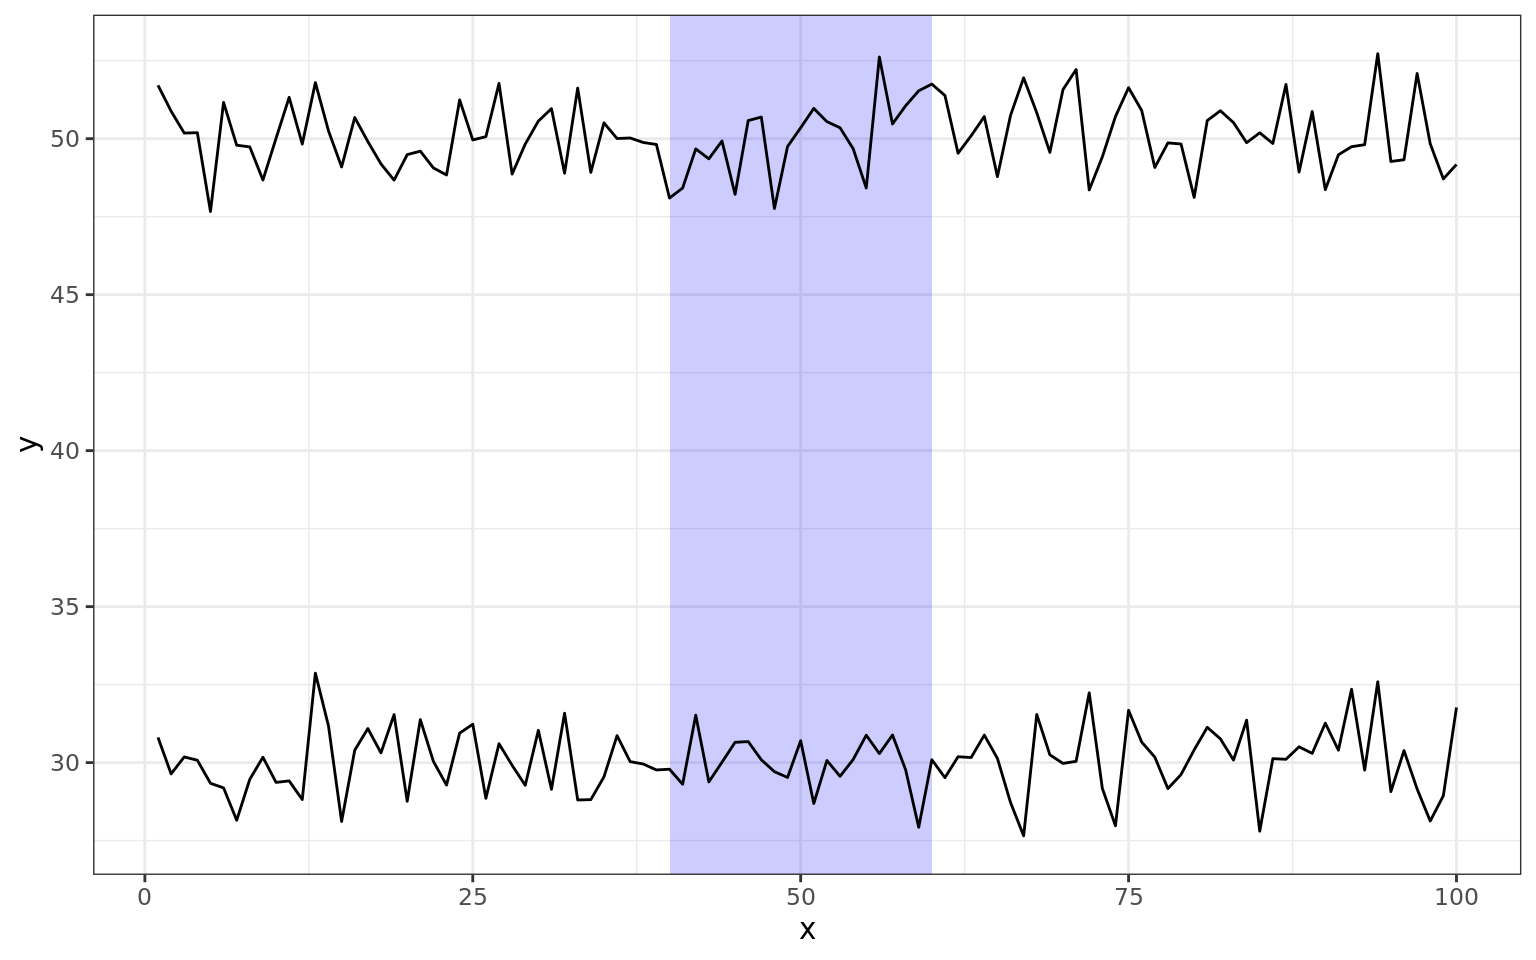
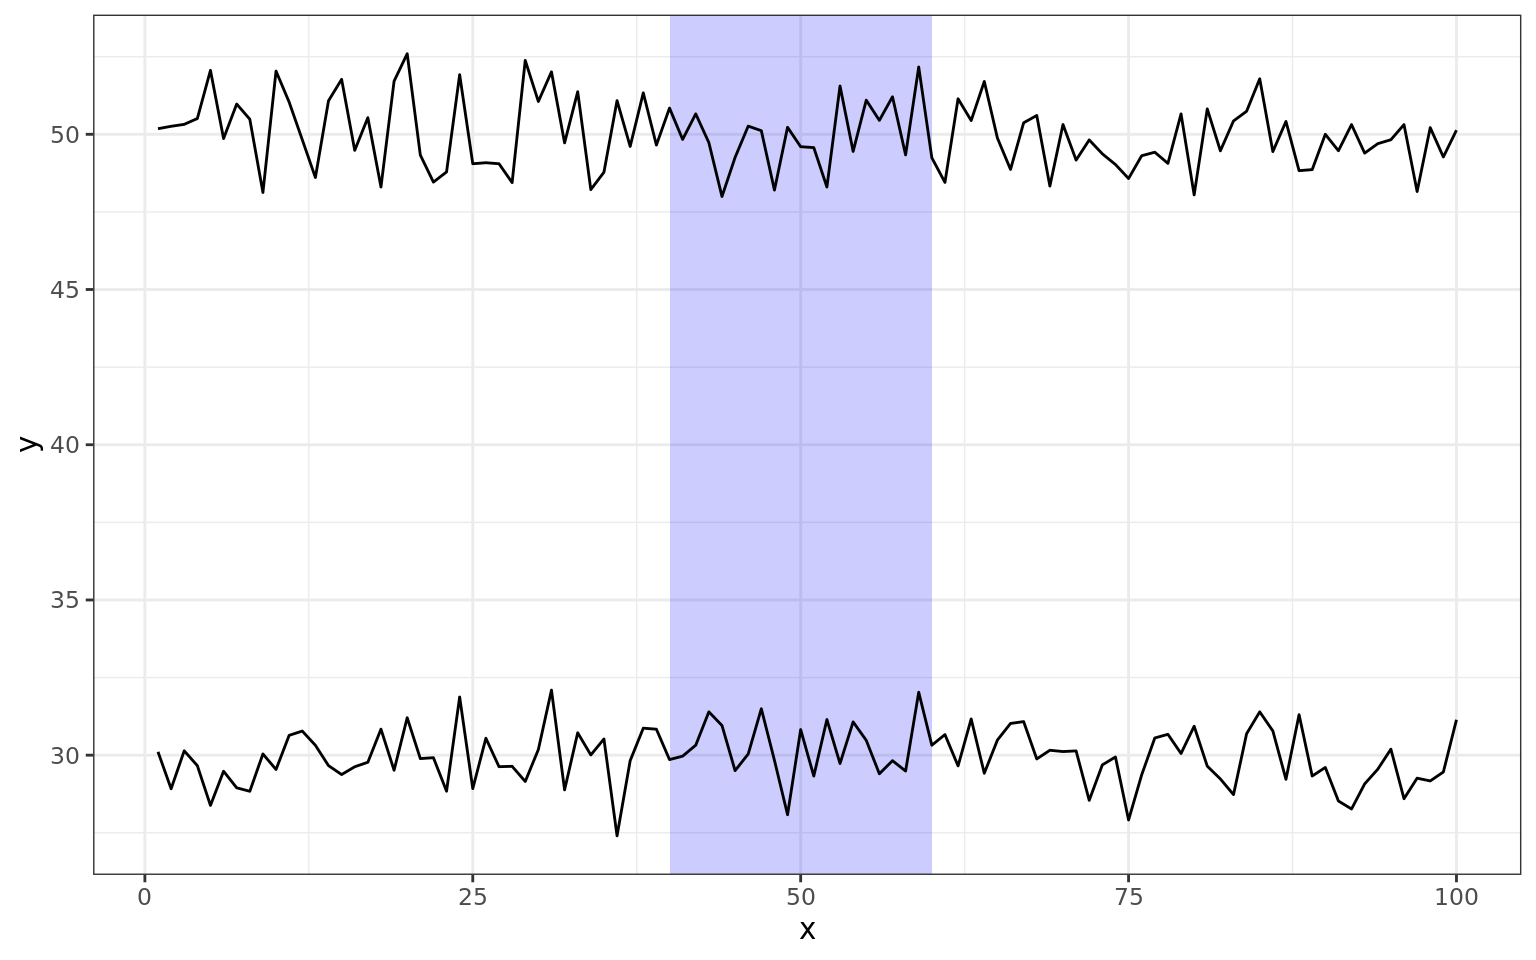
credit

diff --git a/docs/data-wrangling.html b/docs/data-wrangling.html
@@ -193,33 +193,33 @@ runsdata &lt;-<span class="st"> </span><span class="kw">tibble</span>(
 <span class="st">  </span><span class="kw">ungroup</span>() <span class="op">%&gt;%</span>
 <span class="st">  </span><span class="kw">select</span>(subject, trial, stimulus)</code></pre></div>
 <p>Let's say you want to find the start and stop frames where <code>Z</code> appears in <code>stimulus</code>, and do this independently for each combination of <code>subject</code> and <code>trial</code>. Here's how <code>stimulus</code> looks for subject 1 and trial 1.</p>
-<pre><code>##  [1] &quot;b&quot; &quot;b&quot; &quot;d&quot; &quot;d&quot; &quot;a&quot; &quot;a&quot; &quot;a&quot; &quot;c&quot; &quot;c&quot; &quot;Z&quot; &quot;Z&quot; &quot;Z&quot; &quot;d&quot; &quot;d&quot; &quot;d&quot; &quot;b&quot; &quot;b&quot; &quot;b&quot; &quot;c&quot;
-## [20] &quot;c&quot; &quot;a&quot; &quot;a&quot; &quot;a&quot; &quot;a&quot; &quot;Z&quot; &quot;Z&quot; &quot;Z&quot; &quot;c&quot; &quot;c&quot; &quot;d&quot; &quot;d&quot; &quot;d&quot;</code></pre>
-<p>So here you can see that the first run of Zs is from frame 10 to 12, 27 and the second is from 25 to 27. We want to write a function that processes the data for each trial and results in a table like this:</p>
+<pre><code>##  [1] &quot;a&quot; &quot;a&quot; &quot;a&quot; &quot;a&quot; &quot;c&quot; &quot;c&quot; &quot;c&quot; &quot;b&quot; &quot;b&quot; &quot;b&quot; &quot;d&quot; &quot;d&quot; &quot;d&quot; &quot;Z&quot; &quot;Z&quot; &quot;Z&quot; &quot;d&quot; &quot;d&quot; &quot;a&quot;
+## [20] &quot;a&quot; &quot;a&quot; &quot;a&quot; &quot;c&quot; &quot;c&quot; &quot;b&quot; &quot;b&quot; &quot;Z&quot; &quot;Z&quot; &quot;Z&quot; &quot;c&quot; &quot;c&quot; &quot;c&quot; &quot;c&quot; &quot;d&quot; &quot;d&quot;</code></pre>
+<p>So here you can see that the first run of Zs is from frame 14 to 16, 29 and the second is from 27 to 29. We want to write a function that processes the data for each trial and results in a table like this:</p>
 <pre><code>## # A tibble: 2 x 5
 ##   subject trial   run start_frame end_frame
 ##     &lt;dbl&gt; &lt;dbl&gt; &lt;int&gt;       &lt;int&gt;     &lt;int&gt;
-## 1       1     1     1          10        12
-## 2       1     1     2          25        27</code></pre>
+## 1       1     1     1          14        16
+## 2       1     1     2          27        29</code></pre>
 <p>The first thing to do is to add a logical vector to your tibble whose value is <code>TRUE</code> when the target value (e.g., <code>Z</code>) is present in the sequence, false otherwise.</p>
 <div class="sourceCode"><pre class="sourceCode r"><code class="sourceCode r">runsdata_tgt &lt;-<span class="st"> </span>runsdata <span class="op">%&gt;%</span>
 <span class="st">  </span><span class="kw">mutate</span>(<span class="dt">is_target =</span> (stimulus <span class="op">==</span><span class="st"> &quot;Z&quot;</span>))
 
 runsdata_tgt</code></pre></div>
-<pre><code>## # A tibble: 544 x 4
+<pre><code>## # A tibble: 548 x 4
 ##    subject trial stimulus is_target
 ##      &lt;int&gt; &lt;int&gt; &lt;chr&gt;    &lt;lgl&gt;    
-##  1       1     1 b        FALSE    
-##  2       1     1 b        FALSE    
-##  3       1     1 d        FALSE    
-##  4       1     1 d        FALSE    
-##  5       1     1 a        FALSE    
-##  6       1     1 a        FALSE    
-##  7       1     1 a        FALSE    
-##  8       1     1 c        FALSE    
-##  9       1     1 c        FALSE    
-## 10       1     1 Z        TRUE     
-## # … with 534 more rows</code></pre>
+##  1       1     1 a        FALSE    
+##  2       1     1 a        FALSE    
+##  3       1     1 a        FALSE    
+##  4       1     1 a        FALSE    
+##  5       1     1 c        FALSE    
+##  6       1     1 c        FALSE    
+##  7       1     1 c        FALSE    
+##  8       1     1 b        FALSE    
+##  9       1     1 b        FALSE    
+## 10       1     1 b        FALSE    
+## # … with 538 more rows</code></pre>
 <p>We want to iterate over subjects and trials. We'll start by creating a tibble with columns <code>is_target</code> nested into a column called <code>subtbl</code>.</p>
 <div class="sourceCode"><pre class="sourceCode r"><code class="sourceCode r">runs_nest &lt;-<span class="st"> </span>runsdata_tgt <span class="op">%&gt;%</span>
 <span class="st">  </span><span class="kw">select</span>(<span class="op">-</span>stimulus) <span class="op">%&gt;%</span><span class="st"> </span><span class="co"># don&#39;t need it anymore</span>
@@ -230,11 +230,11 @@ runsdata_tgt</code></pre></div>
 s1t1
 
 <span class="kw">rle</span>(s1t1)</code></pre></div>
-<pre><code>##  [1] FALSE FALSE FALSE FALSE FALSE FALSE FALSE FALSE FALSE  TRUE  TRUE  TRUE
-## [13] FALSE FALSE FALSE FALSE FALSE FALSE FALSE FALSE FALSE FALSE FALSE FALSE
-## [25]  TRUE  TRUE  TRUE FALSE FALSE FALSE FALSE FALSE
+<pre><code>##  [1] FALSE FALSE FALSE FALSE FALSE FALSE FALSE FALSE FALSE FALSE FALSE FALSE
+## [13] FALSE  TRUE  TRUE  TRUE FALSE FALSE FALSE FALSE FALSE FALSE FALSE FALSE
+## [25] FALSE FALSE  TRUE  TRUE  TRUE FALSE FALSE FALSE FALSE FALSE FALSE
 ## Run Length Encoding
-##   lengths: int [1:5] 9 3 12 3 5
+##   lengths: int [1:5] 13 3 10 3 6
 ##   values : logi [1:5] FALSE TRUE FALSE TRUE FALSE</code></pre>
 <p>If that doesn't make sense, look at the help for <code>rle()</code> (type <code>?rle</code> in the console). Now we're ready to write our function, <code>detect_runs()</code>.</p>
 <div class="sourceCode"><pre class="sourceCode r"><code class="sourceCode r">detect_runs &lt;-<span class="st"> </span><span class="cf">function</span>(x) {  
@@ -254,8 +254,8 @@ s1t1
 <pre><code>## # A tibble: 2 x 3
 ##     run start_fr end_fr
 ##   &lt;int&gt;    &lt;int&gt;  &lt;int&gt;
-## 1     1       10     12
-## 2     2       25     27</code></pre>
+## 1     1       14     16
+## 2     2       27     29</code></pre>
 <p>OK, now we're ready to run the function.</p>
 <div class="sourceCode"><pre class="sourceCode r"><code class="sourceCode r">result &lt;-<span class="st"> </span>runs_nest <span class="op">%&gt;%</span>
 <span class="st">  </span><span class="kw">mutate</span>(<span class="dt">runstbl =</span> <span class="kw">map</span>(subtbl, detect_runs))
@@ -264,21 +264,21 @@ result</code></pre></div>
 <pre><code>## # A tibble: 15 x 4
 ##    subject trial subtbl            runstbl         
 ##      &lt;int&gt; &lt;int&gt; &lt;list&gt;            &lt;list&gt;          
-##  1       1     1 &lt;tibble [32 × 1]&gt; &lt;tibble [2 × 3]&gt;
-##  2       1     2 &lt;tibble [38 × 1]&gt; &lt;tibble [2 × 3]&gt;
-##  3       1     3 &lt;tibble [36 × 1]&gt; &lt;tibble [2 × 3]&gt;
-##  4       2     1 &lt;tibble [38 × 1]&gt; &lt;tibble [2 × 3]&gt;
-##  5       2     2 &lt;tibble [39 × 1]&gt; &lt;tibble [2 × 3]&gt;
-##  6       2     3 &lt;tibble [45 × 1]&gt; &lt;tibble [2 × 3]&gt;
-##  7       3     1 &lt;tibble [36 × 1]&gt; &lt;tibble [2 × 3]&gt;
-##  8       3     2 &lt;tibble [31 × 1]&gt; &lt;tibble [2 × 3]&gt;
-##  9       3     3 &lt;tibble [35 × 1]&gt; &lt;tibble [2 × 3]&gt;
-## 10       4     1 &lt;tibble [37 × 1]&gt; &lt;tibble [2 × 3]&gt;
-## 11       4     2 &lt;tibble [32 × 1]&gt; &lt;tibble [2 × 3]&gt;
-## 12       4     3 &lt;tibble [36 × 1]&gt; &lt;tibble [2 × 3]&gt;
-## 13       5     1 &lt;tibble [39 × 1]&gt; &lt;tibble [2 × 3]&gt;
-## 14       5     2 &lt;tibble [37 × 1]&gt; &lt;tibble [2 × 3]&gt;
-## 15       5     3 &lt;tibble [33 × 1]&gt; &lt;tibble [2 × 3]&gt;</code></pre>
+##  1       1     1 &lt;tibble [35 × 1]&gt; &lt;tibble [2 × 3]&gt;
+##  2       1     2 &lt;tibble [35 × 1]&gt; &lt;tibble [2 × 3]&gt;
+##  3       1     3 &lt;tibble [39 × 1]&gt; &lt;tibble [2 × 3]&gt;
+##  4       2     1 &lt;tibble [36 × 1]&gt; &lt;tibble [2 × 3]&gt;
+##  5       2     2 &lt;tibble [37 × 1]&gt; &lt;tibble [2 × 3]&gt;
+##  6       2     3 &lt;tibble [34 × 1]&gt; &lt;tibble [2 × 3]&gt;
+##  7       3     1 &lt;tibble [38 × 1]&gt; &lt;tibble [2 × 3]&gt;
+##  8       3     2 &lt;tibble [36 × 1]&gt; &lt;tibble [2 × 3]&gt;
+##  9       3     3 &lt;tibble [37 × 1]&gt; &lt;tibble [2 × 3]&gt;
+## 10       4     1 &lt;tibble [35 × 1]&gt; &lt;tibble [2 × 3]&gt;
+## 11       4     2 &lt;tibble [36 × 1]&gt; &lt;tibble [2 × 3]&gt;
+## 12       4     3 &lt;tibble [37 × 1]&gt; &lt;tibble [2 × 3]&gt;
+## 13       5     1 &lt;tibble [36 × 1]&gt; &lt;tibble [2 × 3]&gt;
+## 14       5     2 &lt;tibble [40 × 1]&gt; &lt;tibble [2 × 3]&gt;
+## 15       5     3 &lt;tibble [37 × 1]&gt; &lt;tibble [2 × 3]&gt;</code></pre>
 <p>Now we just have to unnest and we're done!</p>
 <div class="sourceCode"><pre class="sourceCode r"><code class="sourceCode r">result <span class="op">%&gt;%</span>
 <span class="st">  </span><span class="kw">select</span>(<span class="op">-</span>subtbl) <span class="op">%&gt;%</span>
@@ -286,16 +286,16 @@ result</code></pre></div>
 <pre><code>## # A tibble: 30 x 5
 ##    subject trial   run start_fr end_fr
 ##      &lt;int&gt; &lt;int&gt; &lt;int&gt;    &lt;int&gt;  &lt;int&gt;
-##  1       1     1     1       10     12
-##  2       1     1     2       25     27
-##  3       1     2     1       15     17
-##  4       1     2     2       28     30
-##  5       1     3     1       12     14
-##  6       1     3     2       27     29
-##  7       2     1     1       15     17
-##  8       2     1     2       31     33
-##  9       2     2     1       14     16
-## 10       2     2     2       29     31
+##  1       1     1     1       14     16
+##  2       1     1     2       27     29
+##  3       1     2     1       12     14
+##  4       1     2     2       27     29
+##  5       1     3     1       17     19
+##  6       1     3     2       32     34
+##  7       2     1     1       12     14
+##  8       2     1     2       29     31
+##  9       2     2     1       13     15
+## 10       2     2     2       28     30
 ## # … with 20 more rows</code></pre>
 <p><em>October 30, 2019. -DB</em></p>
 

diff --git a/docs/knitting-and-rmarkdown-files.html b/docs/knitting-and-rmarkdown-files.html
@@ -184,6 +184,7 @@ dat &lt;- read_csv(&quot;blah.csv&quot;) %&gt;%
 <img src="images/rmarkdown-word-code-2.png" />
 
 </div>
+<p><em>March 23, 2020 -DB</em></p>
 
 </div>
 </div>

diff --git a/docs/04-data-wrangling.md b/docs/04-data-wrangling.md
@@ -53,19 +53,19 @@ Let's say you want to find the start and stop frames where `Z` appears in `stimu
 
 
 ```
-##  [1] "b" "b" "d" "d" "a" "a" "a" "c" "c" "Z" "Z" "Z" "d" "d" "d" "b" "b" "b" "c"
-## [20] "c" "a" "a" "a" "a" "Z" "Z" "Z" "c" "c" "d" "d" "d"
+##  [1] "a" "a" "a" "a" "c" "c" "c" "b" "b" "b" "d" "d" "d" "Z" "Z" "Z" "d" "d" "a"
+## [20] "a" "a" "a" "c" "c" "b" "b" "Z" "Z" "Z" "c" "c" "c" "c" "d" "d"
 ```
 
-So here you can see that the first run of Zs is from frame 10 to 12, 27 and the second is from 25 to 27. We want to write a function that processes the data for each trial and results in a table like this:
+So here you can see that the first run of Zs is from frame 14 to 16, 29 and the second is from 27 to 29. We want to write a function that processes the data for each trial and results in a table like this:
 
 
 ```
 ## # A tibble: 2 x 5
 ##   subject trial   run start_frame end_frame
 ##     <dbl> <dbl> <int>       <int>     <int>
-## 1       1     1     1          10        12
-## 2       1     1     2          25        27
+## 1       1     1     1          14        16
+## 2       1     1     2          27        29
 ```
 
 The first thing to do is to add a logical vector to your tibble whose value is `TRUE` when the target value (e.g., `Z`) is present in the sequence, false otherwise.
@@ -79,20 +79,20 @@ runsdata_tgt
 ```
 
 ```
-## # A tibble: 544 x 4
+## # A tibble: 548 x 4
 ##    subject trial stimulus is_target
 ##      <int> <int> <chr>    <lgl>    
-##  1       1     1 b        FALSE    
-##  2       1     1 b        FALSE    
-##  3       1     1 d        FALSE    
-##  4       1     1 d        FALSE    
-##  5       1     1 a        FALSE    
-##  6       1     1 a        FALSE    
-##  7       1     1 a        FALSE    
-##  8       1     1 c        FALSE    
-##  9       1     1 c        FALSE    
-## 10       1     1 Z        TRUE     
-## # … with 534 more rows
+##  1       1     1 a        FALSE    
+##  2       1     1 a        FALSE    
+##  3       1     1 a        FALSE    
+##  4       1     1 a        FALSE    
+##  5       1     1 c        FALSE    
+##  6       1     1 c        FALSE    
+##  7       1     1 c        FALSE    
+##  8       1     1 b        FALSE    
+##  9       1     1 b        FALSE    
+## 10       1     1 b        FALSE    
+## # … with 538 more rows
 ```
 
 We want to iterate over subjects and trials. We'll start by creating a tibble with columns `is_target` nested into a column called `subtbl`.
@@ -116,11 +116,11 @@ rle(s1t1)
 ```
 
 ```
-##  [1] FALSE FALSE FALSE FALSE FALSE FALSE FALSE FALSE FALSE  TRUE  TRUE  TRUE
-## [13] FALSE FALSE FALSE FALSE FALSE FALSE FALSE FALSE FALSE FALSE FALSE FALSE
-## [25]  TRUE  TRUE  TRUE FALSE FALSE FALSE FALSE FALSE
+##  [1] FALSE FALSE FALSE FALSE FALSE FALSE FALSE FALSE FALSE FALSE FALSE FALSE
+## [13] FALSE  TRUE  TRUE  TRUE FALSE FALSE FALSE FALSE FALSE FALSE FALSE FALSE
+## [25] FALSE FALSE  TRUE  TRUE  TRUE FALSE FALSE FALSE FALSE FALSE FALSE
 ## Run Length Encoding
-##   lengths: int [1:5] 9 3 12 3 5
+##   lengths: int [1:5] 13 3 10 3 6
 ##   values : logi [1:5] FALSE TRUE FALSE TRUE FALSE
 ```
 
@@ -153,8 +153,8 @@ detect_runs(tibble(lvec = s1t1))
 ## # A tibble: 2 x 3
 ##     run start_fr end_fr
 ##   <int>    <int>  <int>
-## 1     1       10     12
-## 2     2       25     27
+## 1     1       14     16
+## 2     2       27     29
 ```
 
 OK, now we're ready to run the function.
@@ -171,21 +171,21 @@ result
 ## # A tibble: 15 x 4
 ##    subject trial subtbl            runstbl         
 ##      <int> <int> <list>            <list>          
-##  1       1     1 <tibble [32 × 1]> <tibble [2 × 3]>
-##  2       1     2 <tibble [38 × 1]> <tibble [2 × 3]>
-##  3       1     3 <tibble [36 × 1]> <tibble [2 × 3]>
-##  4       2     1 <tibble [38 × 1]> <tibble [2 × 3]>
-##  5       2     2 <tibble [39 × 1]> <tibble [2 × 3]>
-##  6       2     3 <tibble [45 × 1]> <tibble [2 × 3]>
-##  7       3     1 <tibble [36 × 1]> <tibble [2 × 3]>
-##  8       3     2 <tibble [31 × 1]> <tibble [2 × 3]>
-##  9       3     3 <tibble [35 × 1]> <tibble [2 × 3]>
-## 10       4     1 <tibble [37 × 1]> <tibble [2 × 3]>
-## 11       4     2 <tibble [32 × 1]> <tibble [2 × 3]>
-## 12       4     3 <tibble [36 × 1]> <tibble [2 × 3]>
-## 13       5     1 <tibble [39 × 1]> <tibble [2 × 3]>
-## 14       5     2 <tibble [37 × 1]> <tibble [2 × 3]>
-## 15       5     3 <tibble [33 × 1]> <tibble [2 × 3]>
+##  1       1     1 <tibble [35 × 1]> <tibble [2 × 3]>
+##  2       1     2 <tibble [35 × 1]> <tibble [2 × 3]>
+##  3       1     3 <tibble [39 × 1]> <tibble [2 × 3]>
+##  4       2     1 <tibble [36 × 1]> <tibble [2 × 3]>
+##  5       2     2 <tibble [37 × 1]> <tibble [2 × 3]>
+##  6       2     3 <tibble [34 × 1]> <tibble [2 × 3]>
+##  7       3     1 <tibble [38 × 1]> <tibble [2 × 3]>
+##  8       3     2 <tibble [36 × 1]> <tibble [2 × 3]>
+##  9       3     3 <tibble [37 × 1]> <tibble [2 × 3]>
+## 10       4     1 <tibble [35 × 1]> <tibble [2 × 3]>
+## 11       4     2 <tibble [36 × 1]> <tibble [2 × 3]>
+## 12       4     3 <tibble [37 × 1]> <tibble [2 × 3]>
+## 13       5     1 <tibble [36 × 1]> <tibble [2 × 3]>
+## 14       5     2 <tibble [40 × 1]> <tibble [2 × 3]>
+## 15       5     3 <tibble [37 × 1]> <tibble [2 × 3]>
 ```
 
 Now we just have to unnest and we're done!
@@ -201,16 +201,16 @@ result %>%
 ## # A tibble: 30 x 5
 ##    subject trial   run start_fr end_fr
 ##      <int> <int> <int>    <int>  <int>
-##  1       1     1     1       10     12
-##  2       1     1     2       25     27
-##  3       1     2     1       15     17
-##  4       1     2     2       28     30
-##  5       1     3     1       12     14
-##  6       1     3     2       27     29
-##  7       2     1     1       15     17
-##  8       2     1     2       31     33
-##  9       2     2     1       14     16
-## 10       2     2     2       29     31
+##  1       1     1     1       14     16
+##  2       1     1     2       27     29
+##  3       1     2     1       12     14
+##  4       1     2     2       27     29
+##  5       1     3     1       17     19
+##  6       1     3     2       32     34
+##  7       2     1     1       12     14
+##  8       2     1     2       29     31
+##  9       2     2     1       13     15
+## 10       2     2     2       28     30
 ## # … with 20 more rows
 ```
 

diff --git a/docs/03-rmarkdown.md b/docs/03-rmarkdown.md
@@ -38,3 +38,5 @@ dat <- read_csv("blah.csv") %>%
 Third step: compile to Word. You can now copy and paste the formatted code into your document.
 
 ![](images/rmarkdown-word-code-2.png)
+
+*March 23, 2020 -DB*
